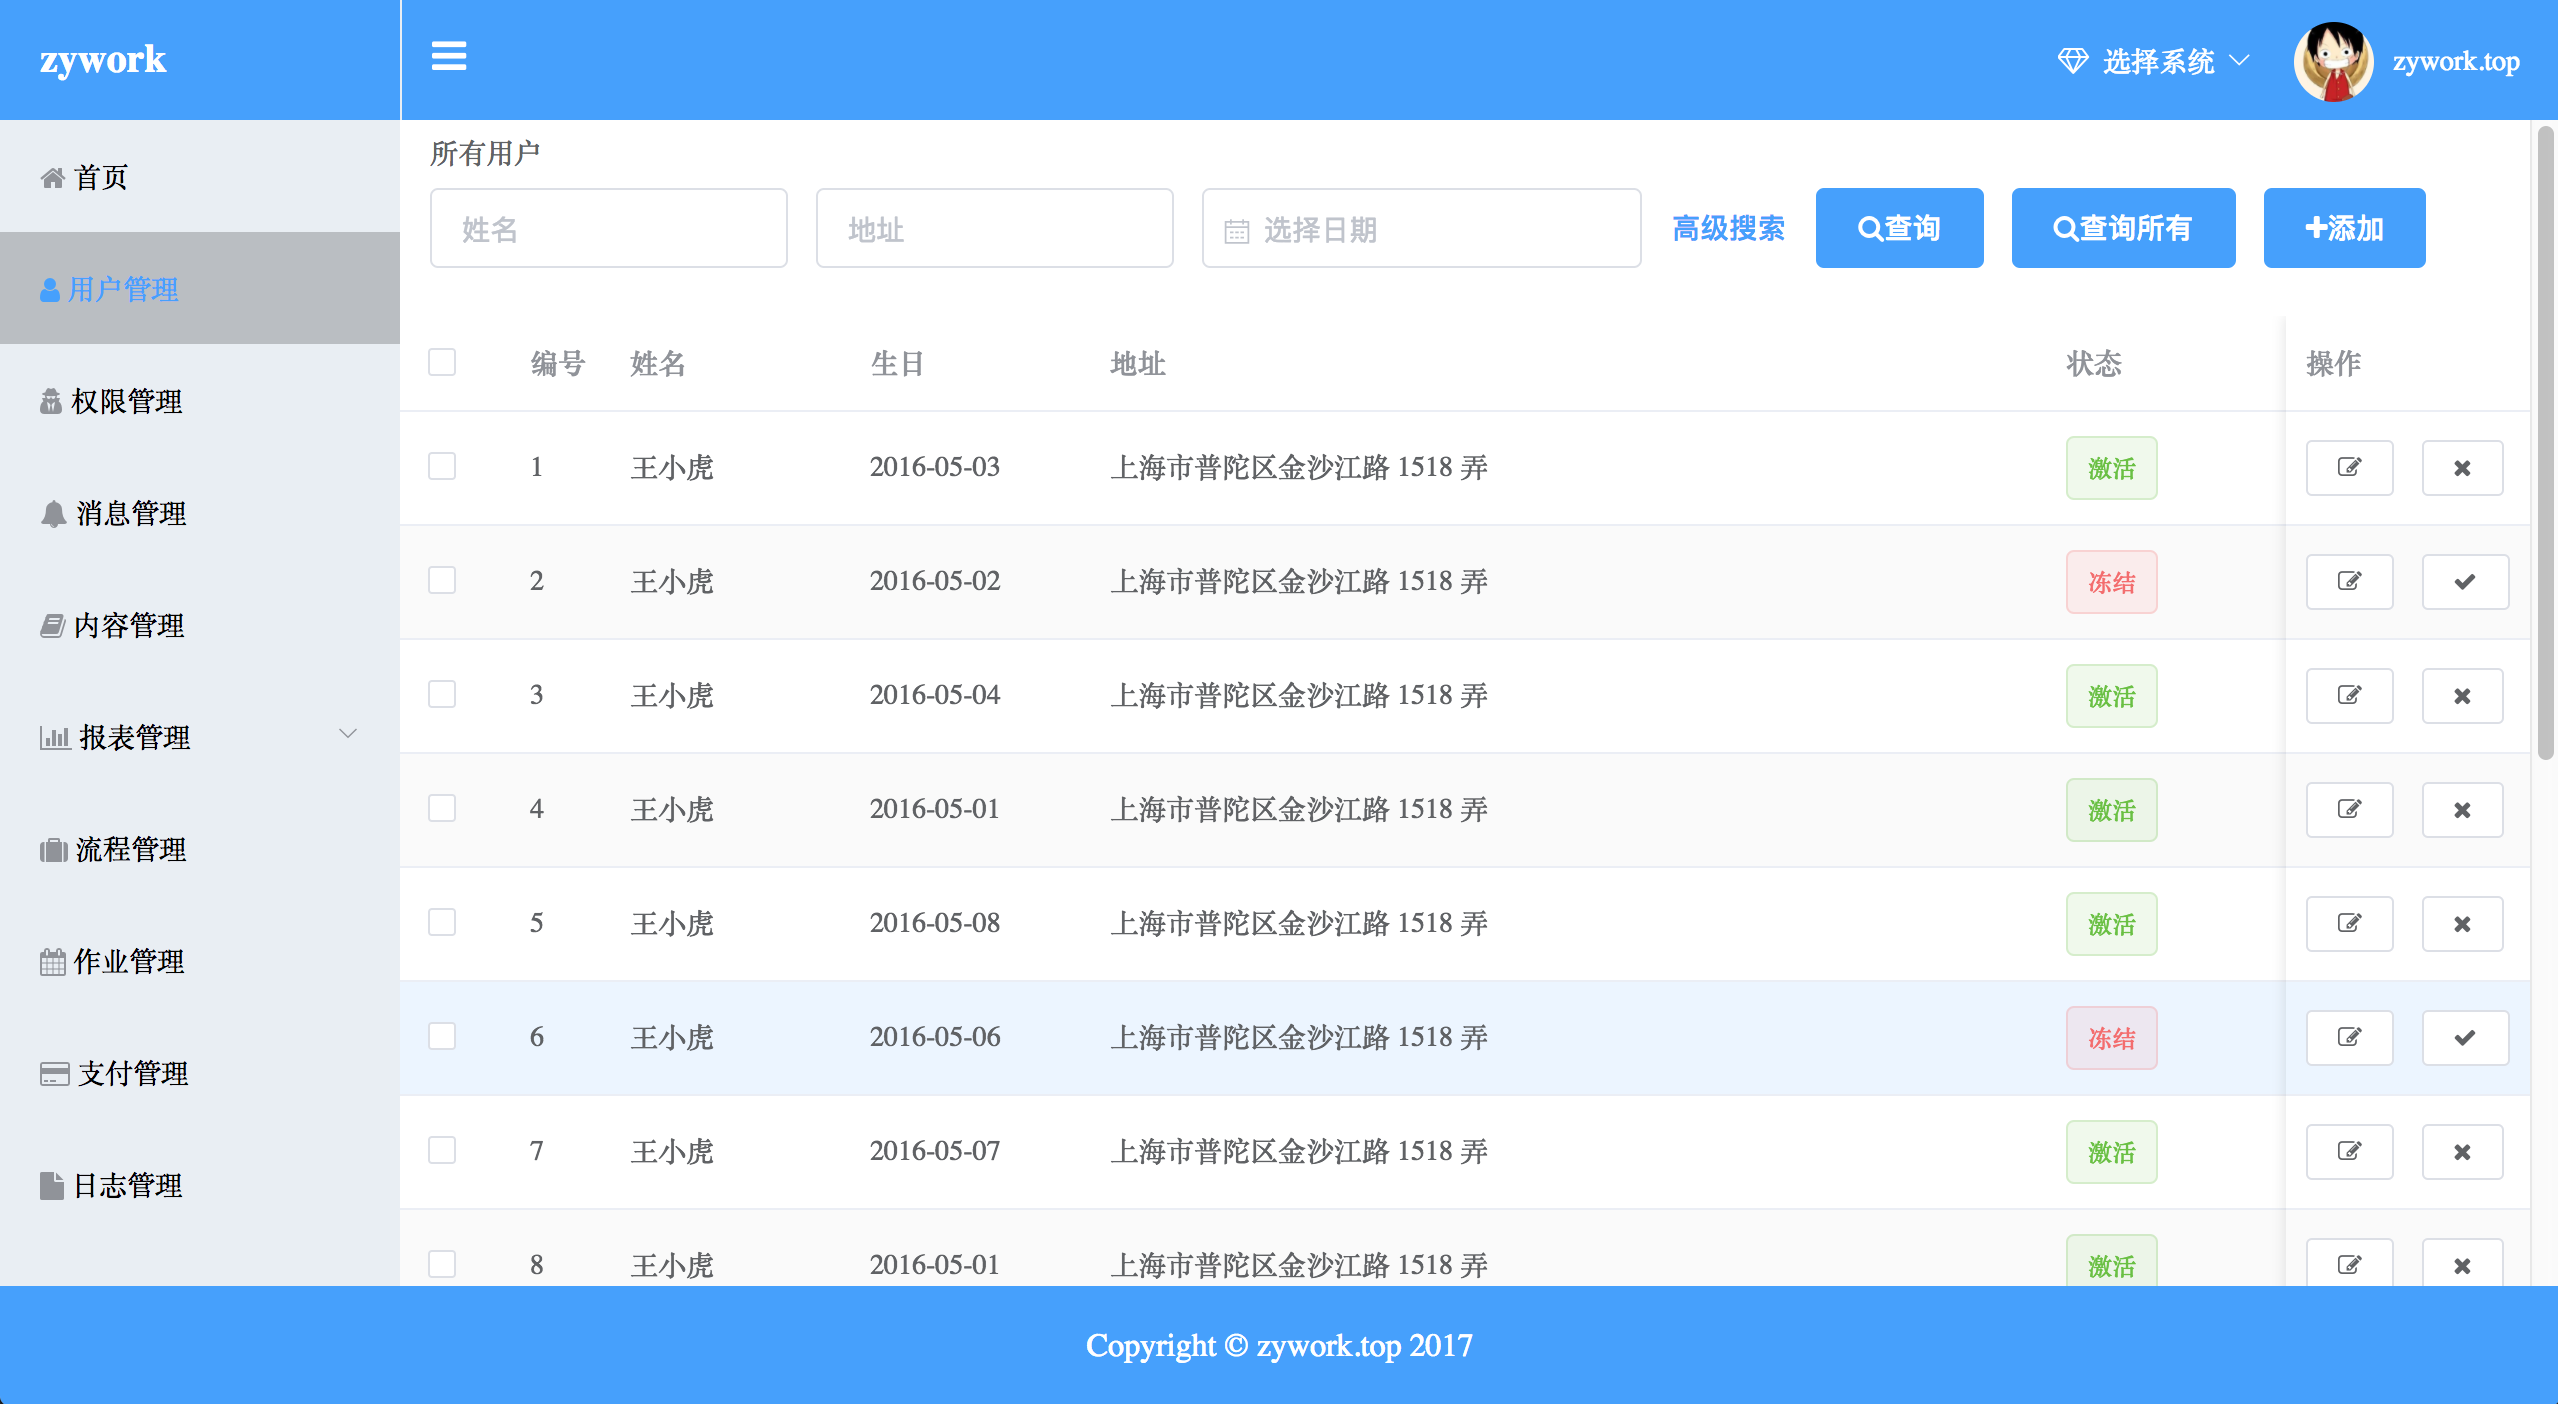
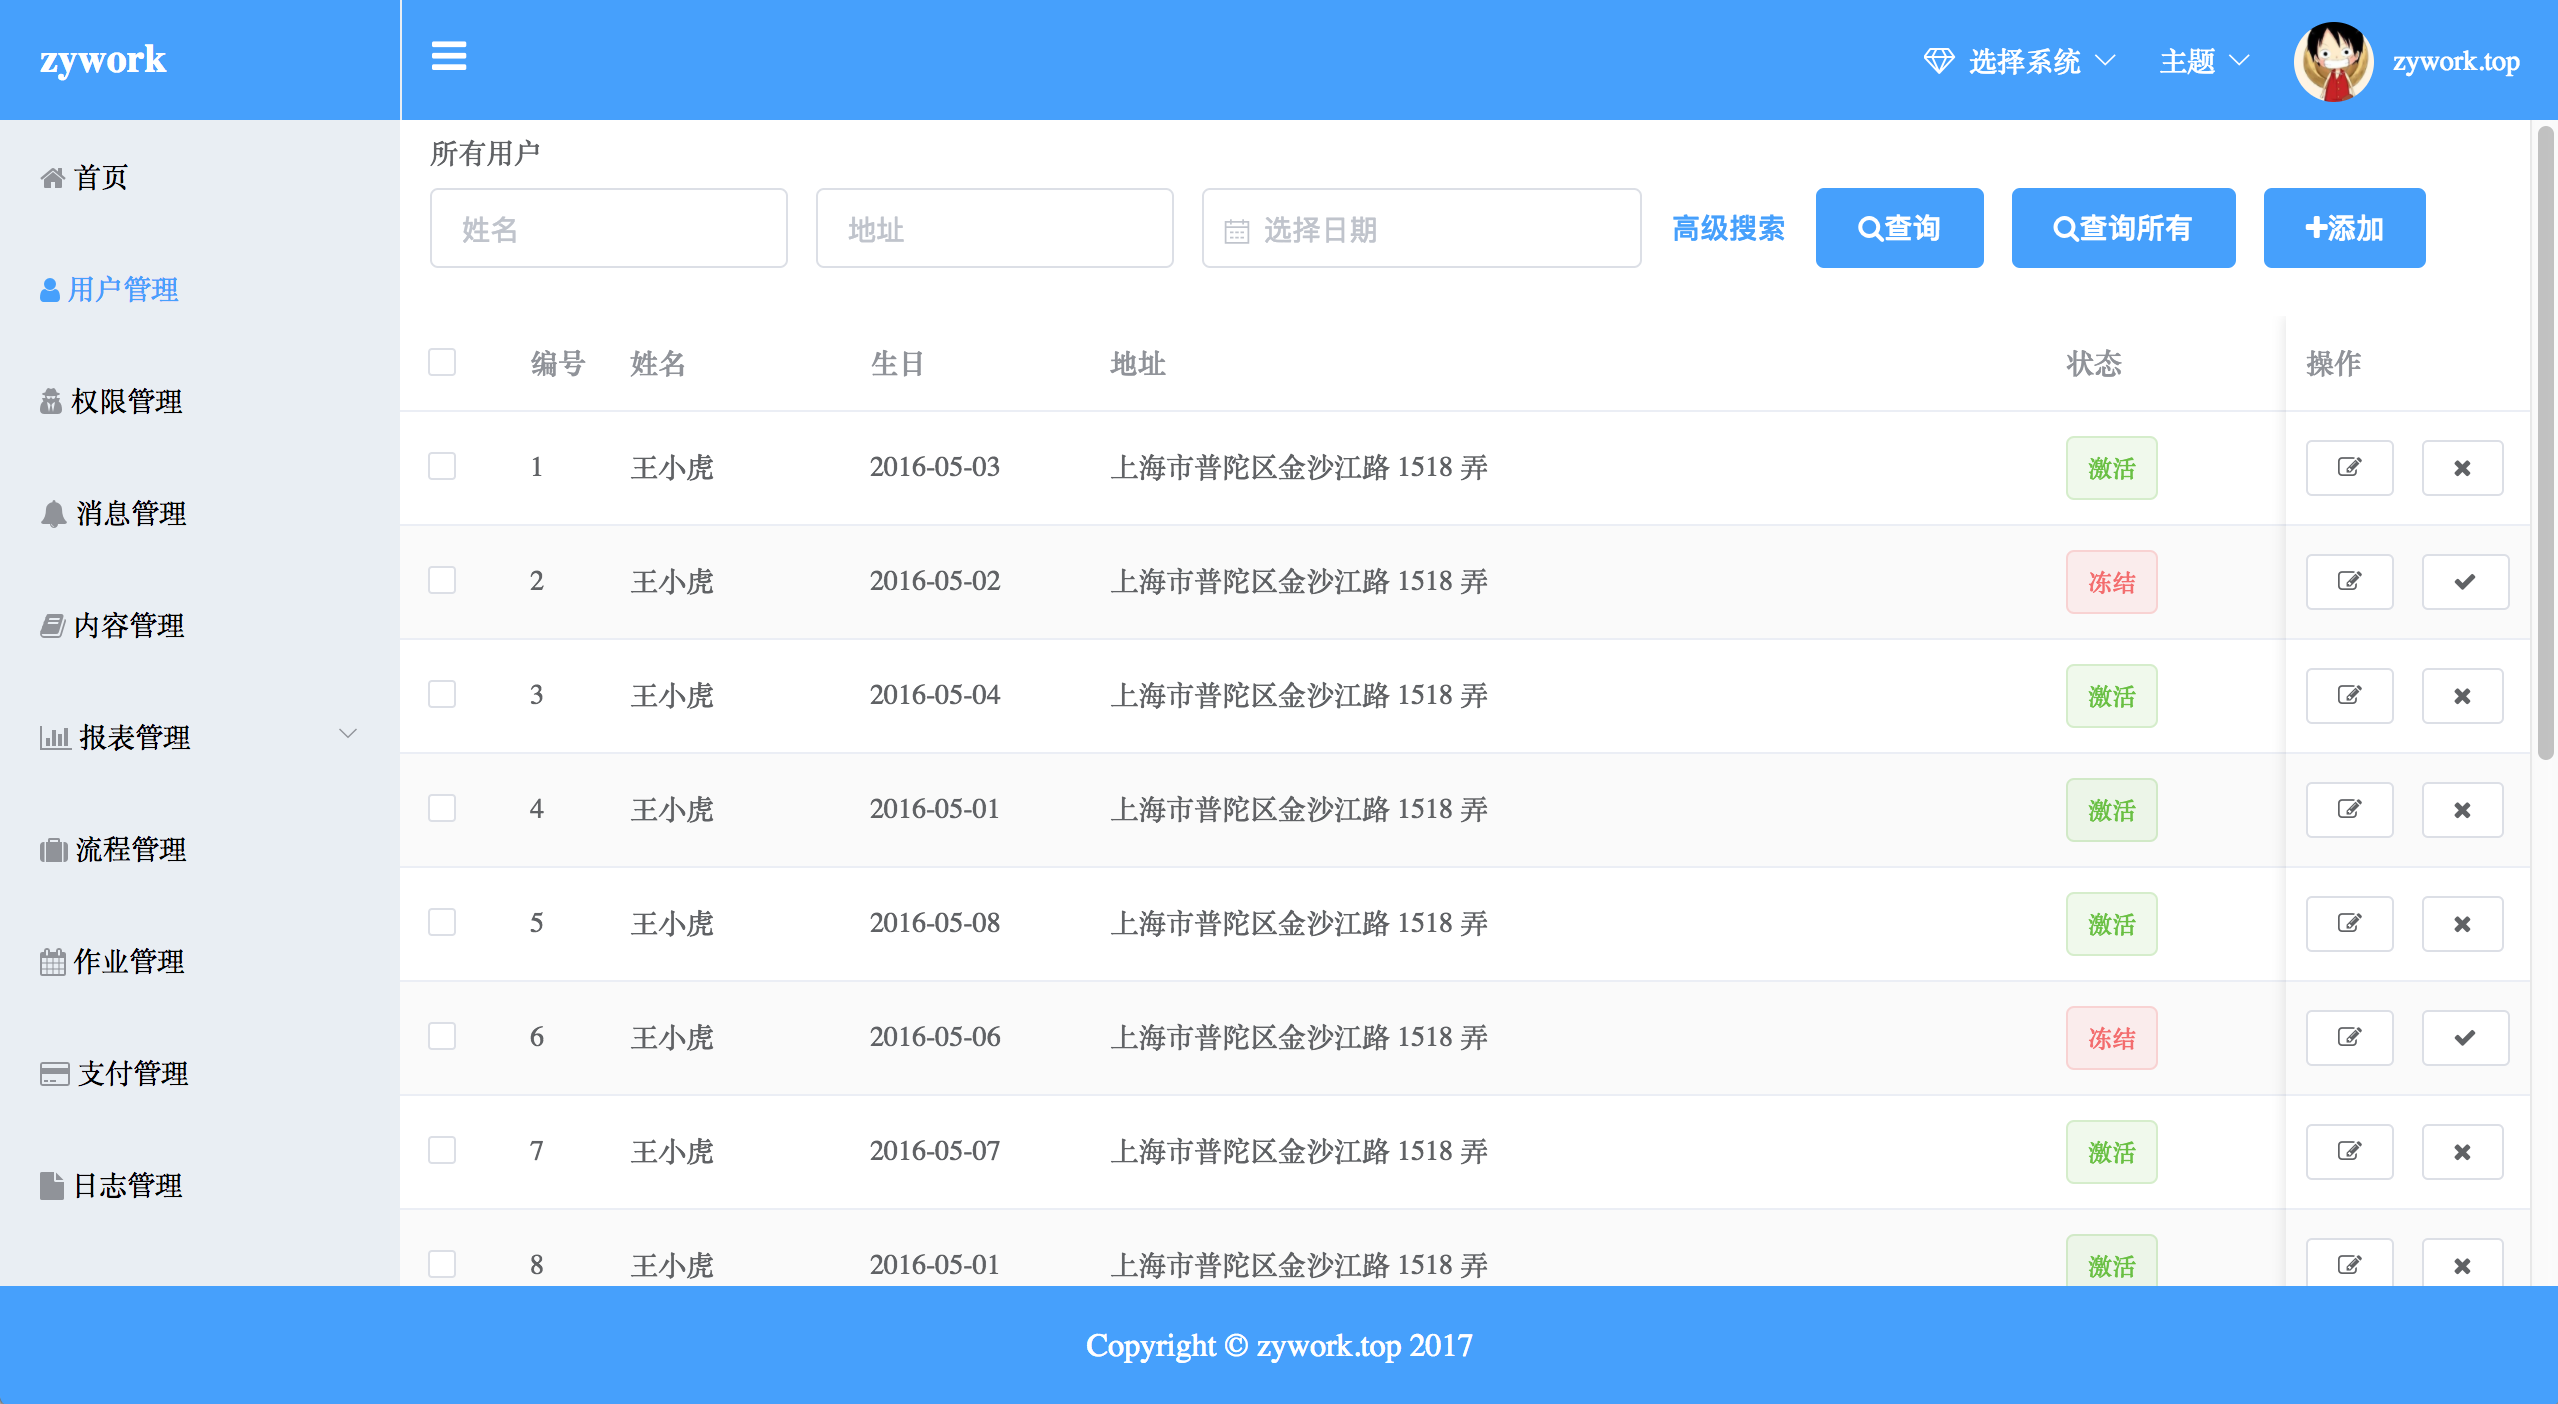
更新README.md和后台模板截图

Changed region(s): [[0.0, 0.1531, 0.1544, 0.245], [0.7412, 0.0306, 0.8647, 0.0613]]

diff --git a/zywork-ui/zywork-ui-backend/README.md b/zywork-ui/zywork-ui-backend/README.md
@@ -4,6 +4,8 @@
 
 基于Vue.js和Element UI的zywork后台管理模板
 
+支持动态切换任意颜色的主题
+
 ![](https://github.com/GZWgssmart/zywork/blob/master/zywork-ui/zywork-ui-backend/src/assets/zywork-backend-ui.png)
 
 #### Build Setup
